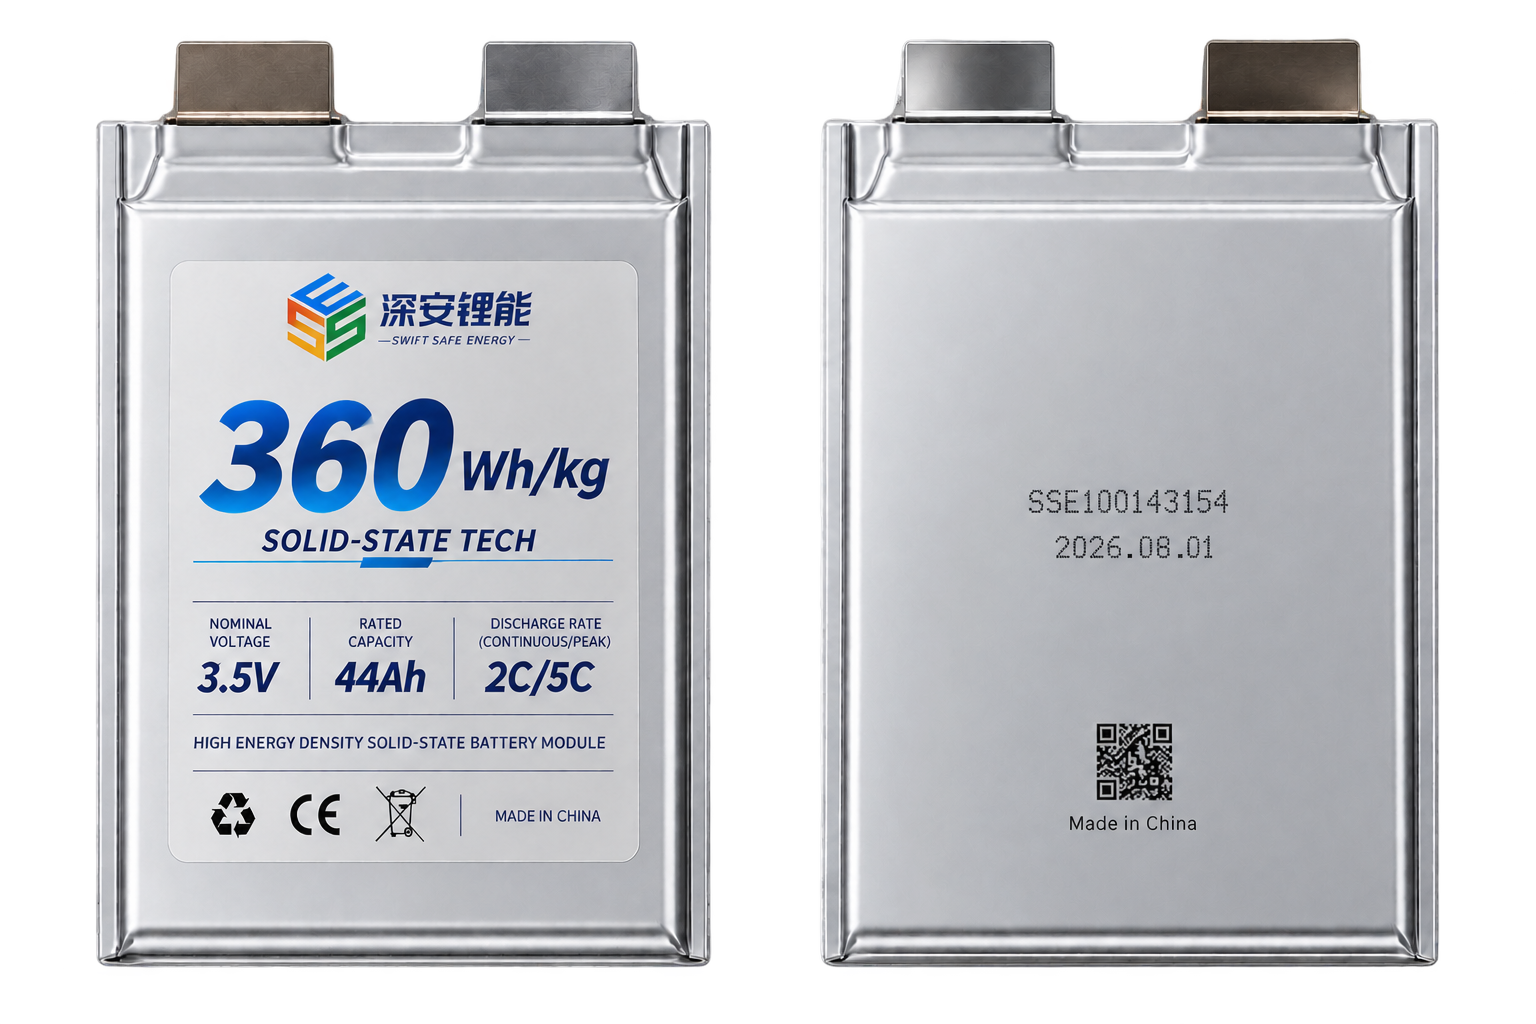
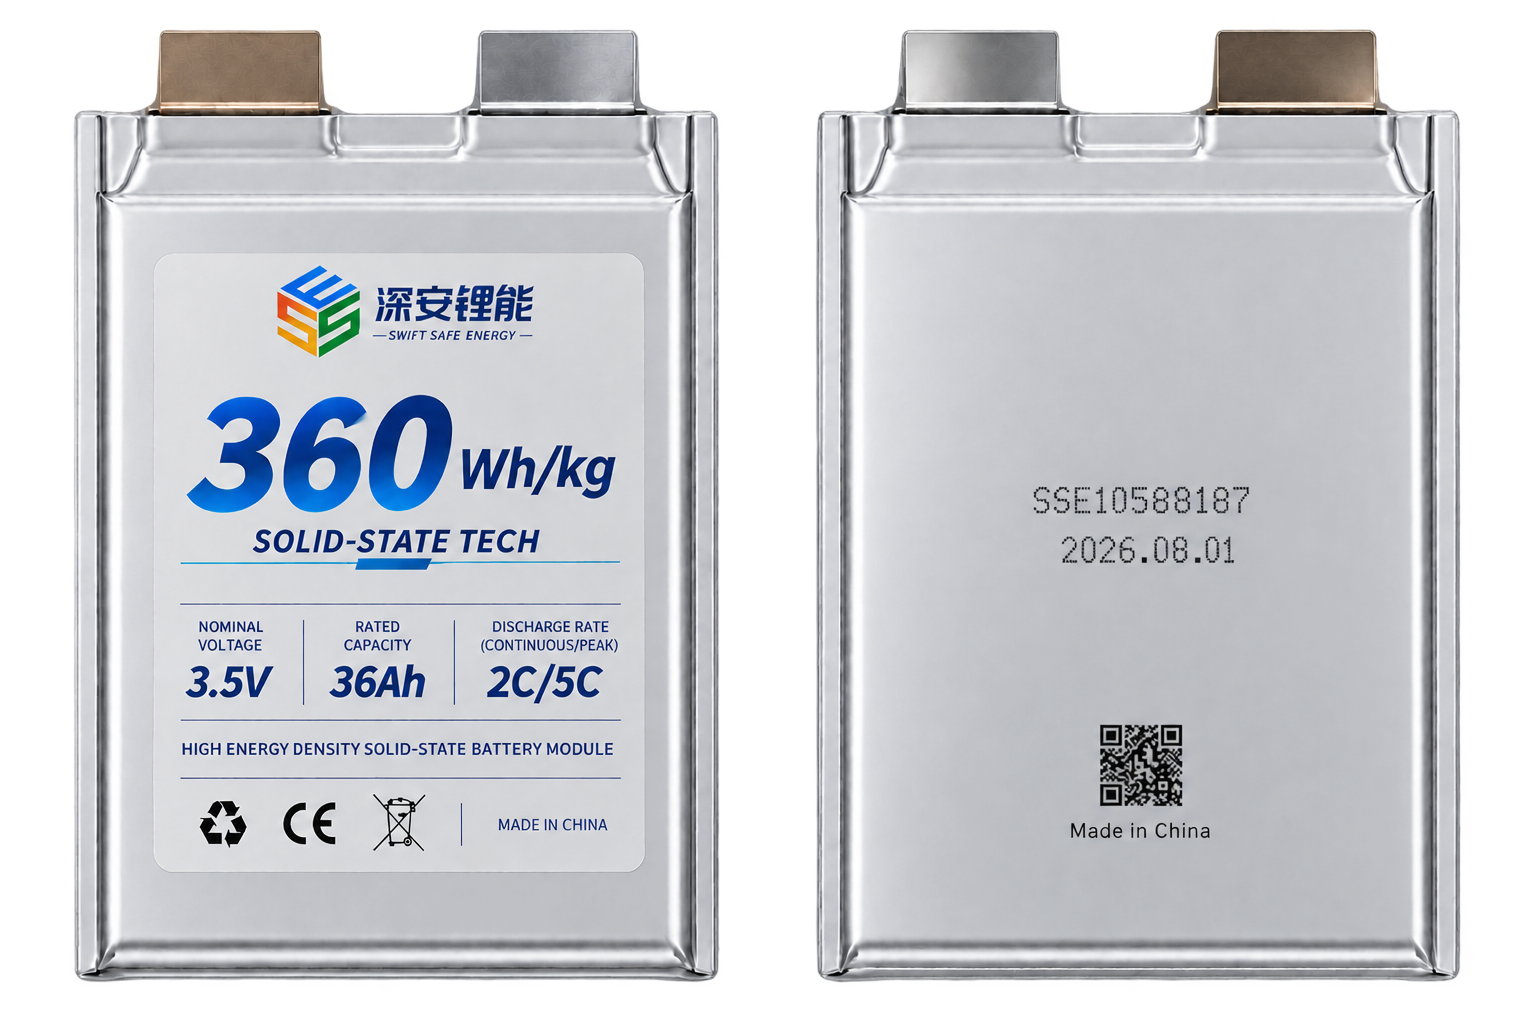
feat(about): retag the hero and refresh the 360-P product shot
Swap the hero's supporting line from "solid-state battery expert"
to "leader in high-energy, high-safety batteries" - the positioning
has moved from a technology direction to a market position. The
English tracks the same shift, Expert -> Leader.

Replace the 360-P hero render with the current product shot. Both
files are 1536x1024 RGBA, so the reference in data/products.ts and
the transparent-background treatment are untouched.

diff --git a/app/about/page.tsx b/app/about/page.tsx
@@ -142,7 +142,7 @@ export default function AboutPage() {
                 transition={{ delay: 1.3, duration: 0.8 }}
                 style={{ color: 'rgba(100, 113, 135, 0.75)' }}
               >
-                {heroCms.auxText || (isZh ? "固态电池技术专家" : "Solid-State Battery Expert")}
+                {heroCms.auxText || (isZh ? "高比能高安全新型电池引领者" : "Leader in High-Energy, High-Safety Batteries")}
               </motion.p>
             </motion.div>
           </div>
